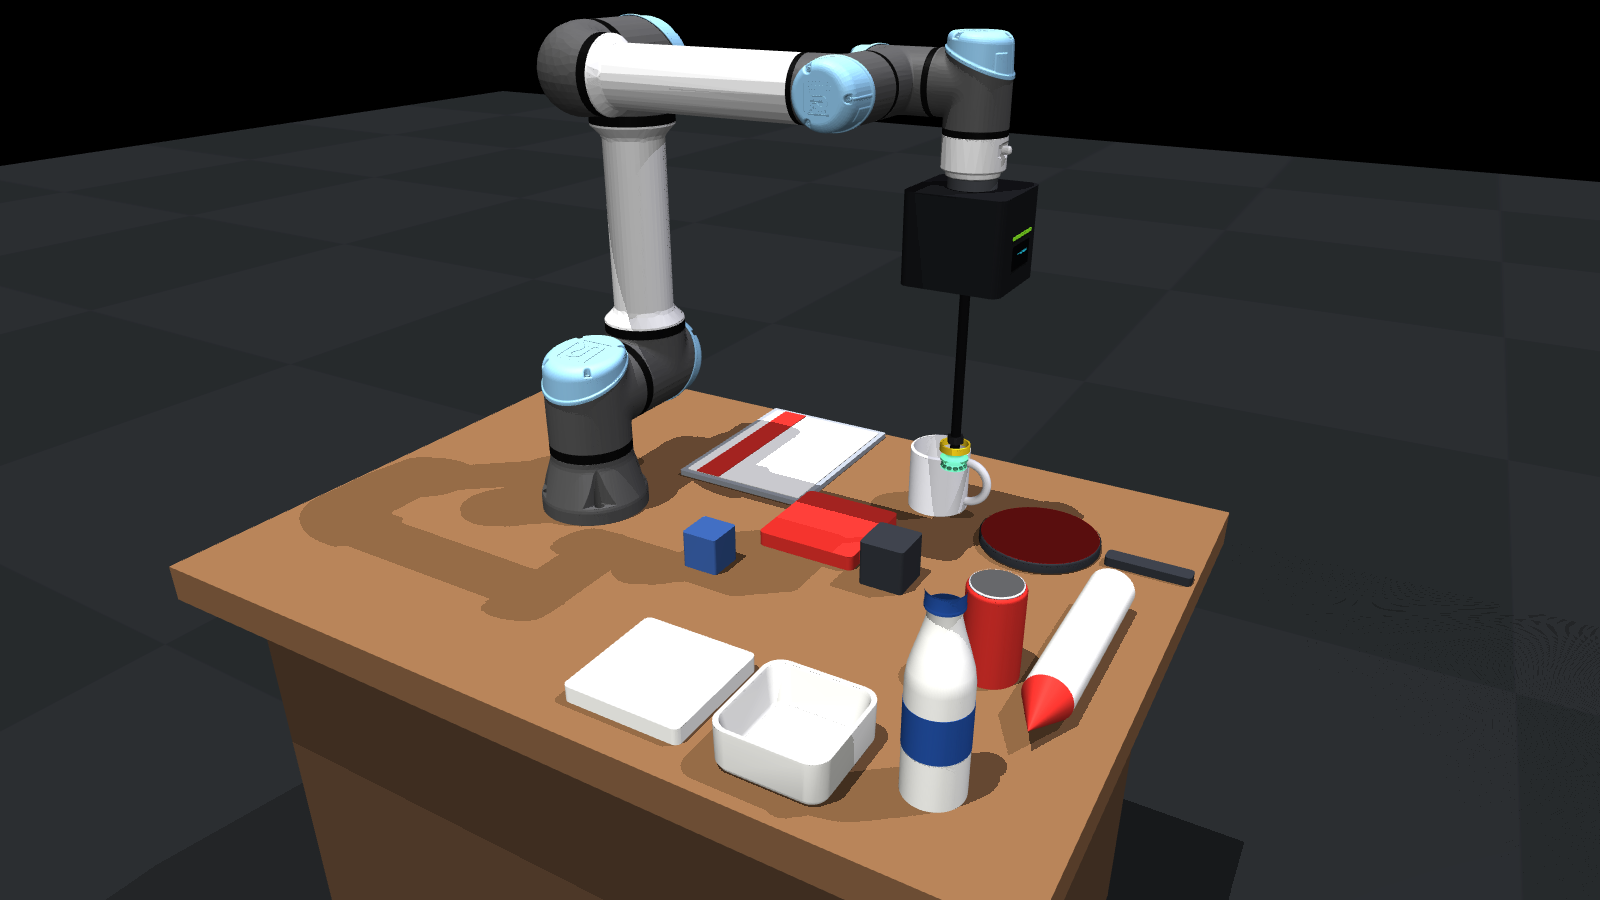
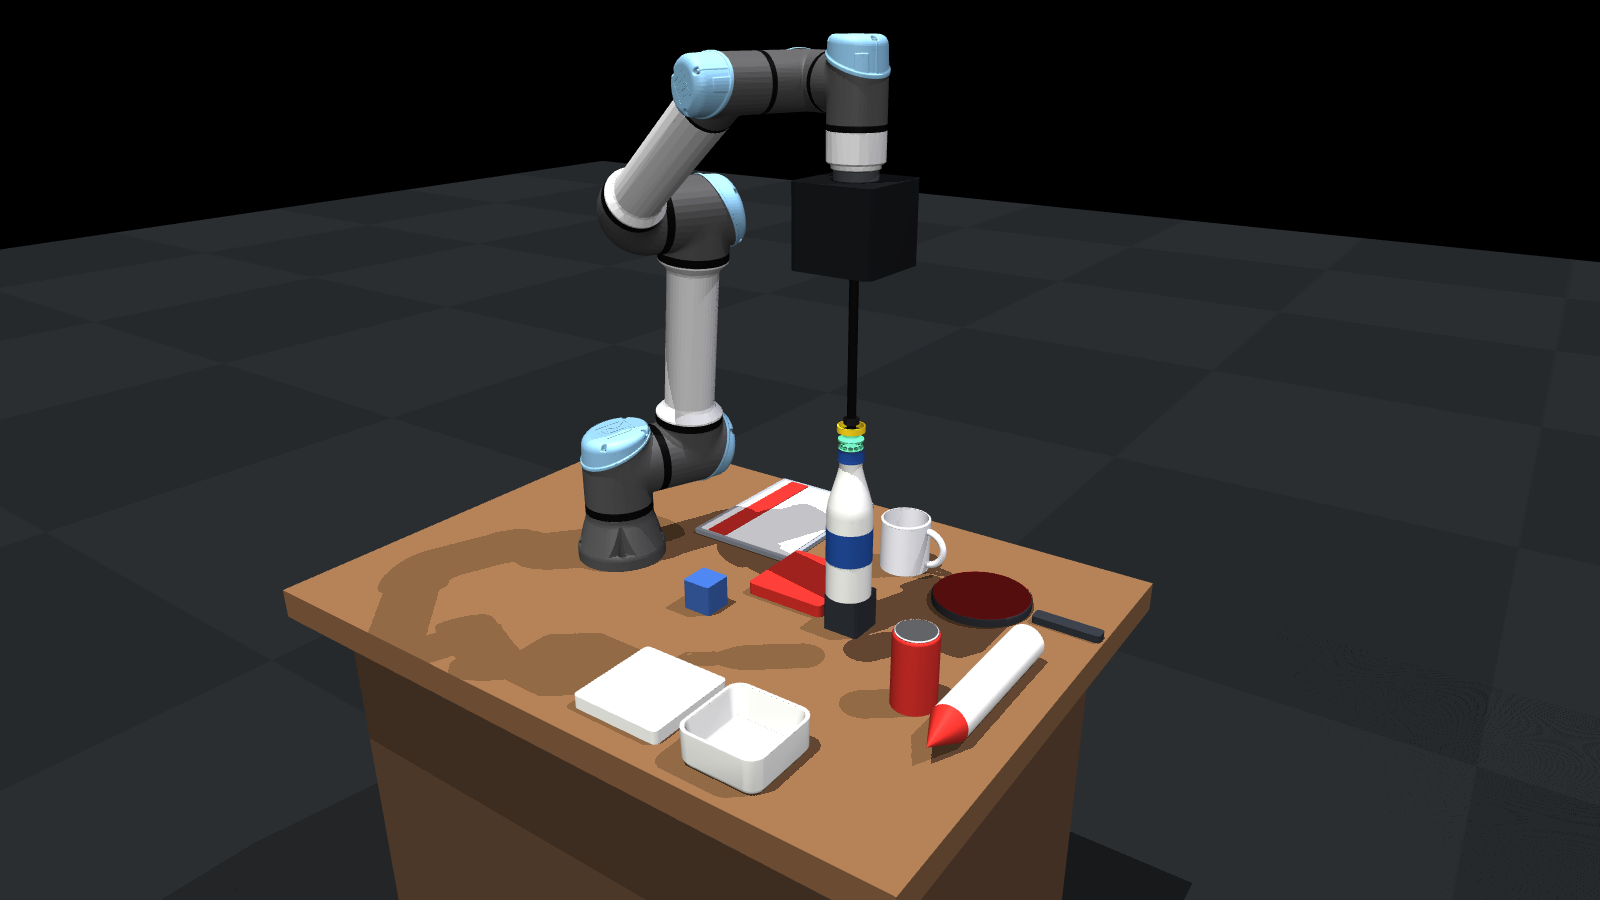
Show the robot picking the bottle in the README hero image
docs/render_images.py now renders the payload close-up first and then
performs a real 15 kPa bottle pick, lifts it about 10 cm, and renders the
hero image while the bottle is held.

diff --git a/docs/render_images.py b/docs/render_images.py
@@ -4,8 +4,10 @@ Usage::
 
     .venv/bin/python docs/render_images.py
 
-The images are written to ``docs/images`` by default.  They are ordinary
-MuJoCo renders (no post-processing) of the 11-object scene at 1600x900.
+``payloads.png`` is the settled 11-object scene.  ``cell.png`` shows the
+UR5e + piCOBOT holding the bottle after a real scripted pick (approach,
+descend, 15 kPa engage, lift).  Images are written to ``docs/images`` by
+default at 1600x900.
 """
 
 from __future__ import annotations
@@ -22,13 +24,46 @@ from mujoco_sim.config import OBJ_SPECS
 
 #: free-camera poses used for the two README images
 POSES: dict[str, dict] = {
-    "cell": dict(
-        lookat=(0.34, 0.0, 0.88), distance=1.35, azimuth=120.0, elevation=-25.0
-    ),
     "payloads": dict(
         lookat=(0.36, 0.0, 0.86), distance=1.25, azimuth=125.0, elevation=-24.0
     ),
+    "cell": dict(
+        lookat=(0.38, 0.0, 1.00), distance=1.60, azimuth=125.0, elevation=-22.0
+    ),
 }
+
+#: where the bottle is held for the hero image (cup-tip target, world metres)
+PICK_LIFT_TARGET = (0.50, -0.05, 1.05)
+
+
+def _render(renderer, env, pose: dict, path: Path) -> None:
+    camera = mujoco.MjvCamera()
+    camera.lookat[:] = np.asarray(pose["lookat"], dtype=float)
+    camera.distance = float(pose["distance"])
+    camera.azimuth = float(pose["azimuth"])
+    camera.elevation = float(pose["elevation"])
+    renderer.update_scene(env.data, camera=camera)
+    Image.fromarray(renderer.render()).save(path)
+    print(path)
+
+
+def _pick_bottle(env) -> None:
+    top = env.object_top_center("bottle")
+    env.move_tip_to(top + np.array([0, 0, 0.09]), duration_s=1.0, check=False)
+    env.move_tip_to(top + np.array([0, 0, -0.0002]), duration_s=1.0, check=False)
+    env.hold(0.5)
+    env.suction.set_cmd(15.0)
+    env.hold(1.2)
+    if not env.suction.part_present:
+        raise RuntimeError("bottle pick did not seal")
+    env.move_tip_to(np.asarray(PICK_LIFT_TARGET), duration_s=1.5, check=False)
+    env.hold(0.5)
+    if not env.suction.part_present:
+        raise RuntimeError("bottle was lost during the lift")
+    print(
+        "bottle held at %.3f m clearance, vacuum %.1f kPa"
+        % (env.object_clearance_m("bottle"), env.suction.vacuum_kpa)
+    )
 
 
 def main(argv: list[str] | None = None) -> int:
@@ -49,16 +84,10 @@ def main(argv: list[str] | None = None) -> int:
         env.model.vis.global_.offheight = args.height
         renderer = mujoco.Renderer(env.model, args.height, args.width)
         try:
-            for name, pose in POSES.items():
-                camera = mujoco.MjvCamera()
-                camera.lookat[:] = np.asarray(pose["lookat"], dtype=float)
-                camera.distance = float(pose["distance"])
-                camera.azimuth = float(pose["azimuth"])
-                camera.elevation = float(pose["elevation"])
-                renderer.update_scene(env.data, camera=camera)
-                path = args.out / f"{name}.png"
-                Image.fromarray(renderer.render()).save(path)
-                print(path)
+            # payload close-up first, while every object is still on the table
+            _render(renderer, env, POSES["payloads"], args.out / "payloads.png")
+            _pick_bottle(env)
+            _render(renderer, env, POSES["cell"], args.out / "cell.png")
         finally:
             renderer.close()
     finally:

diff --git a/README.md b/README.md
@@ -12,7 +12,9 @@ mounted on the work table.  It serves two purposes:
    depth and point clouds, with per-attempt labels in a recordings-like
    directory layout.
 
-![MuJoCo model of the UR5e + piCOBOT suction cell](docs/images/cell.png)
+![UR5e + piCOBOT picking the bottle](docs/images/cell.png)
+
+*The UR5e + piCOBOT picking the bottle in the 11-object scene.*
 
 ```
 .
@@ -218,14 +220,16 @@ table-tennis racket with a rubber face, and a rocket lying on its side).
 
 ![Payload meshes in the MuJoCo scene](docs/images/payloads.png)
 
-Regenerate both README renders from the live simulation with
-`.venv/bin/python docs/render_images.py`.
 Collision stays on cheap primitives (`geoms=`), which are moved to render
 group 3 when a visual mesh exists.  The bowl and mug are **hollow**: their
 collision is a floor plus a ring of wall boxes, so the cup can descend into
 the vessel and seal on the interior floor.  `pick_offset_xy` / `pick_offset_z`
 place the vacuum cup on the actual grasp surface (blade centre for the
 racket, interior floor for the bowl and mug).
+
+Regenerate both README renders from the live simulation with
+`.venv/bin/python docs/render_images.py` (the script performs a real 15 kPa
+bottle pick before rendering `cell.png`).
 
 ### Seal calibration
 
